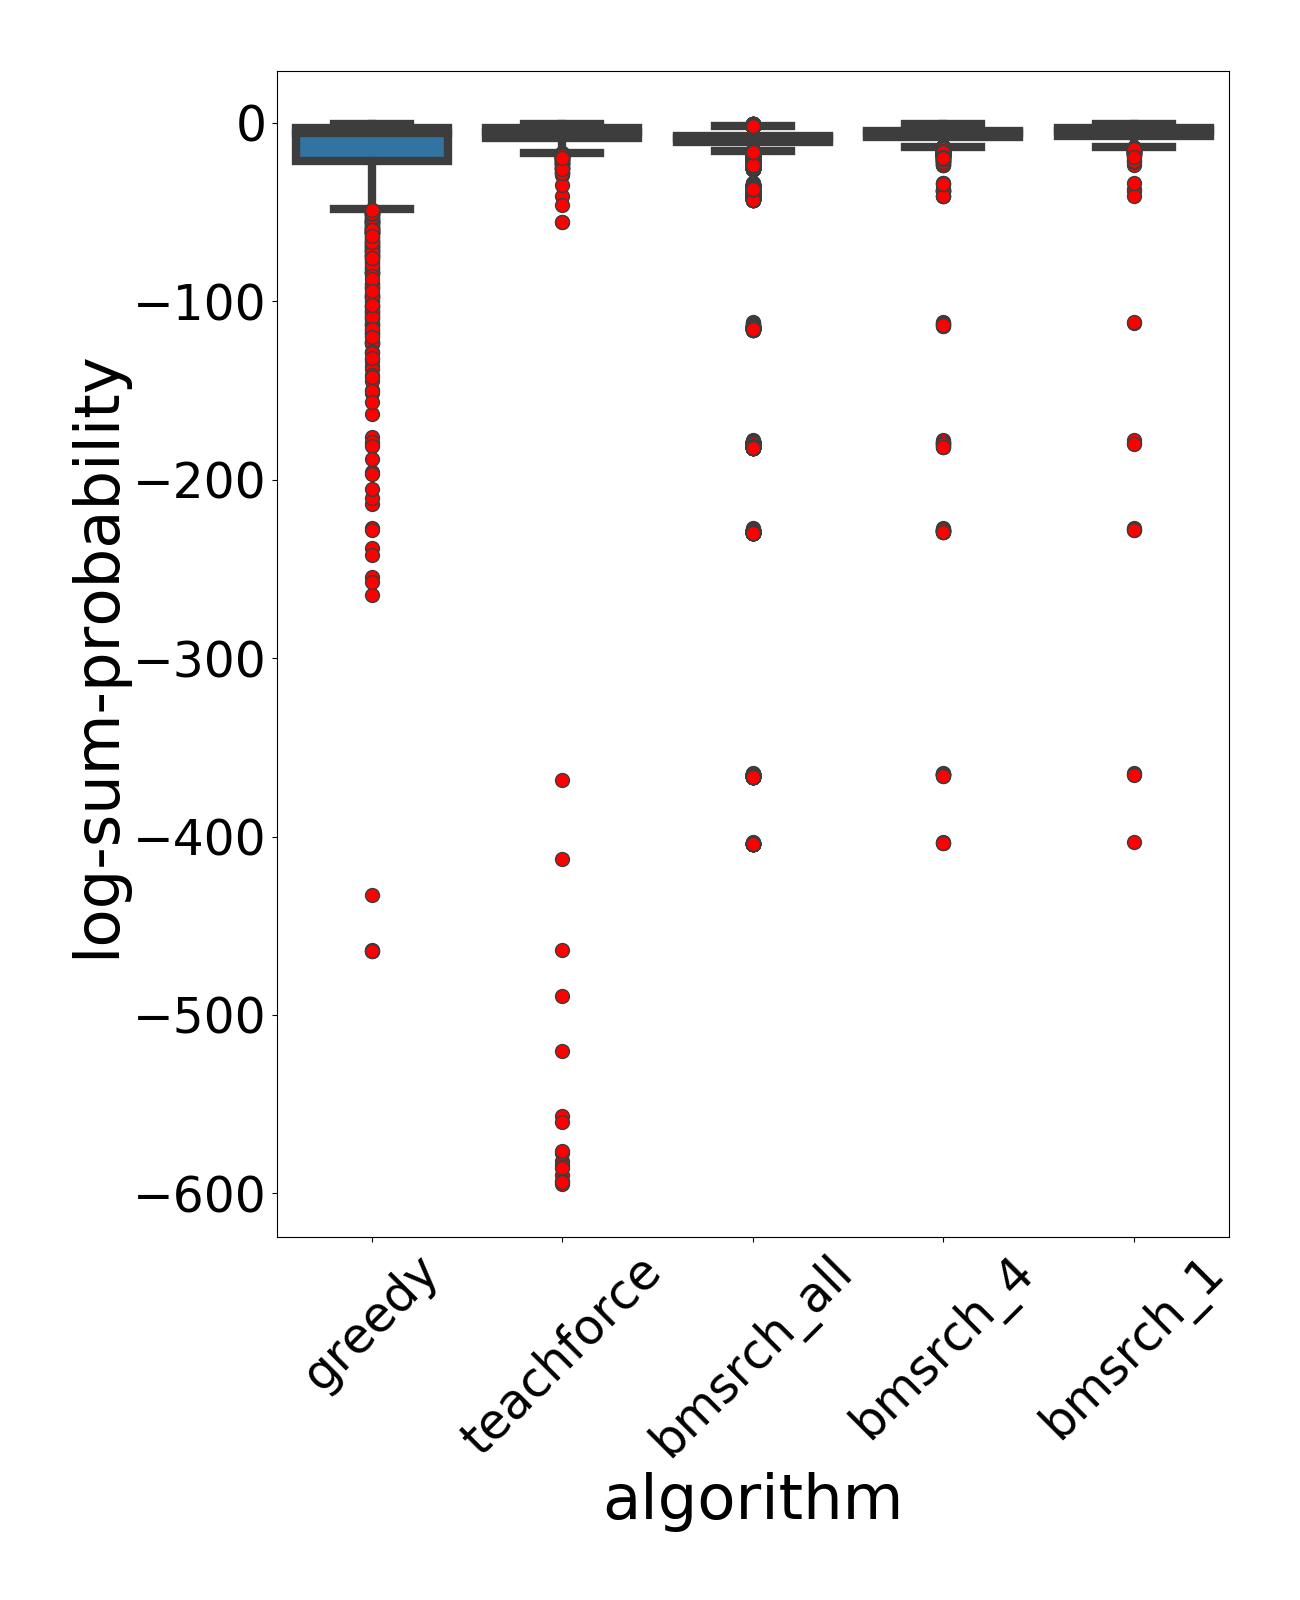
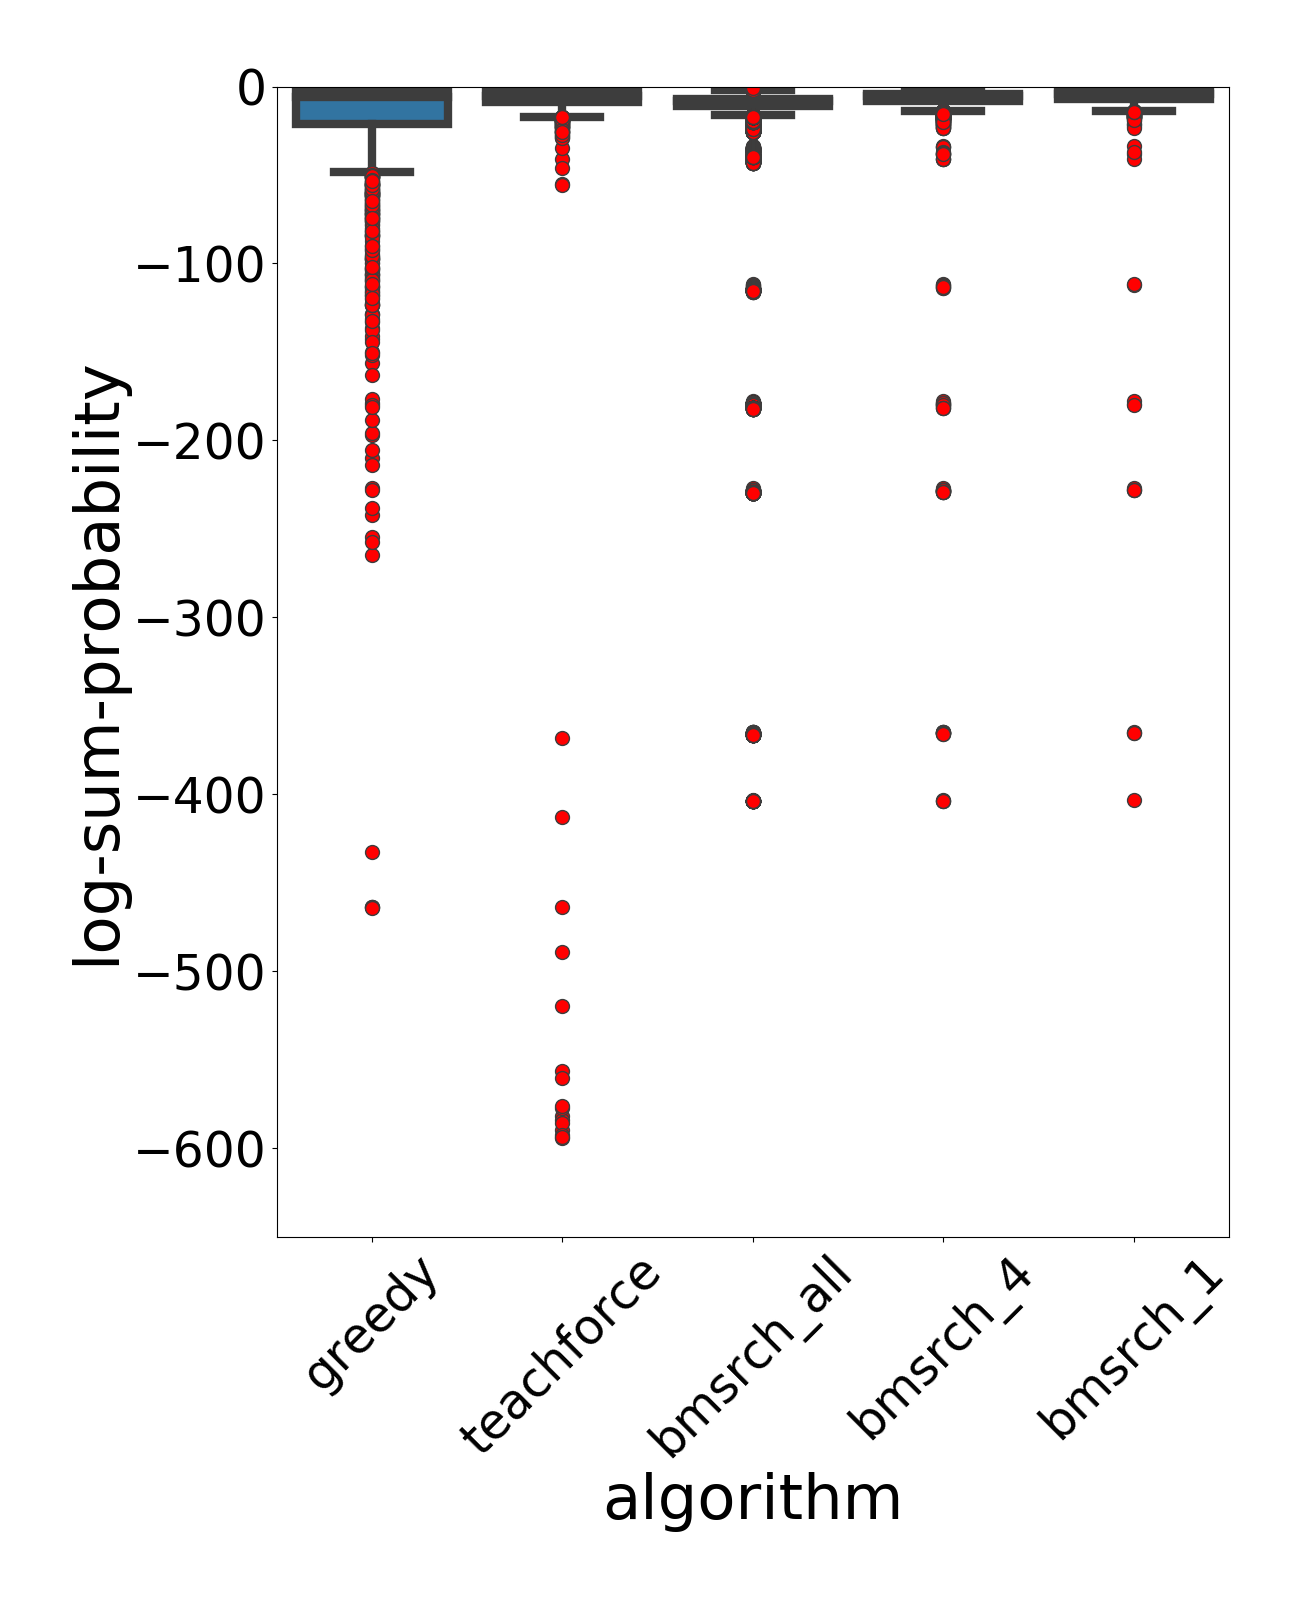
Hacky fix to unify y axis length

diff --git a/src/app/helper_scripts/15_plot_aggregate_probabilities_for_many_gaps.py b/src/app/helper_scripts/15_plot_aggregate_probabilities_for_many_gaps.py
@@ -19,9 +19,10 @@ secondary_text_font_size=35
 linewidth=6
 rotation=45
 
-def save_plot(data, path):
+def save_plot(data, path, ylim=None):
     plt.rc('xtick', labelsize=secondary_text_font_size)
     plt.rc('ytick', labelsize=secondary_text_font_size)
+
     font = {
         'size': primary_text_font_size
     }
@@ -39,6 +40,8 @@ def save_plot(data, path):
 
     ax = sns.boxplot(data=data, x="algorithm", y="log-sum-probability", linewidth=linewidth, flierprops=flierprops)
     ax.set_xticklabels(ax.get_xticklabels(), rotation=rotation)
+    if ylim is not None:
+        plt.ylim(ylim)
     plt.tight_layout()
     fig = plt.savefig(path)
     plt.close(fig)
@@ -165,7 +168,7 @@ def main():
 
         df_drilldown = df.loc[df['algorithm'] != "random"]
         path = output_folder + "flanks_aggregate_probability_drilldown.png"
-        save_plot(df_drilldown, path)
+        save_plot(df_drilldown, path, ylim=(-650,0))
 
         ####################################################################################################################
         ####GAPS######
@@ -221,7 +224,7 @@ def main():
 
         df[numeric_headers] = df[numeric_headers].apply(pd.to_numeric)
         path = output_folder + "gaps_aggregate_probability.png"
-        save_plot(df, path)
+        save_plot(df, path, ylim=(-750,0))
 
 if __name__ == "__main__":
     main()
